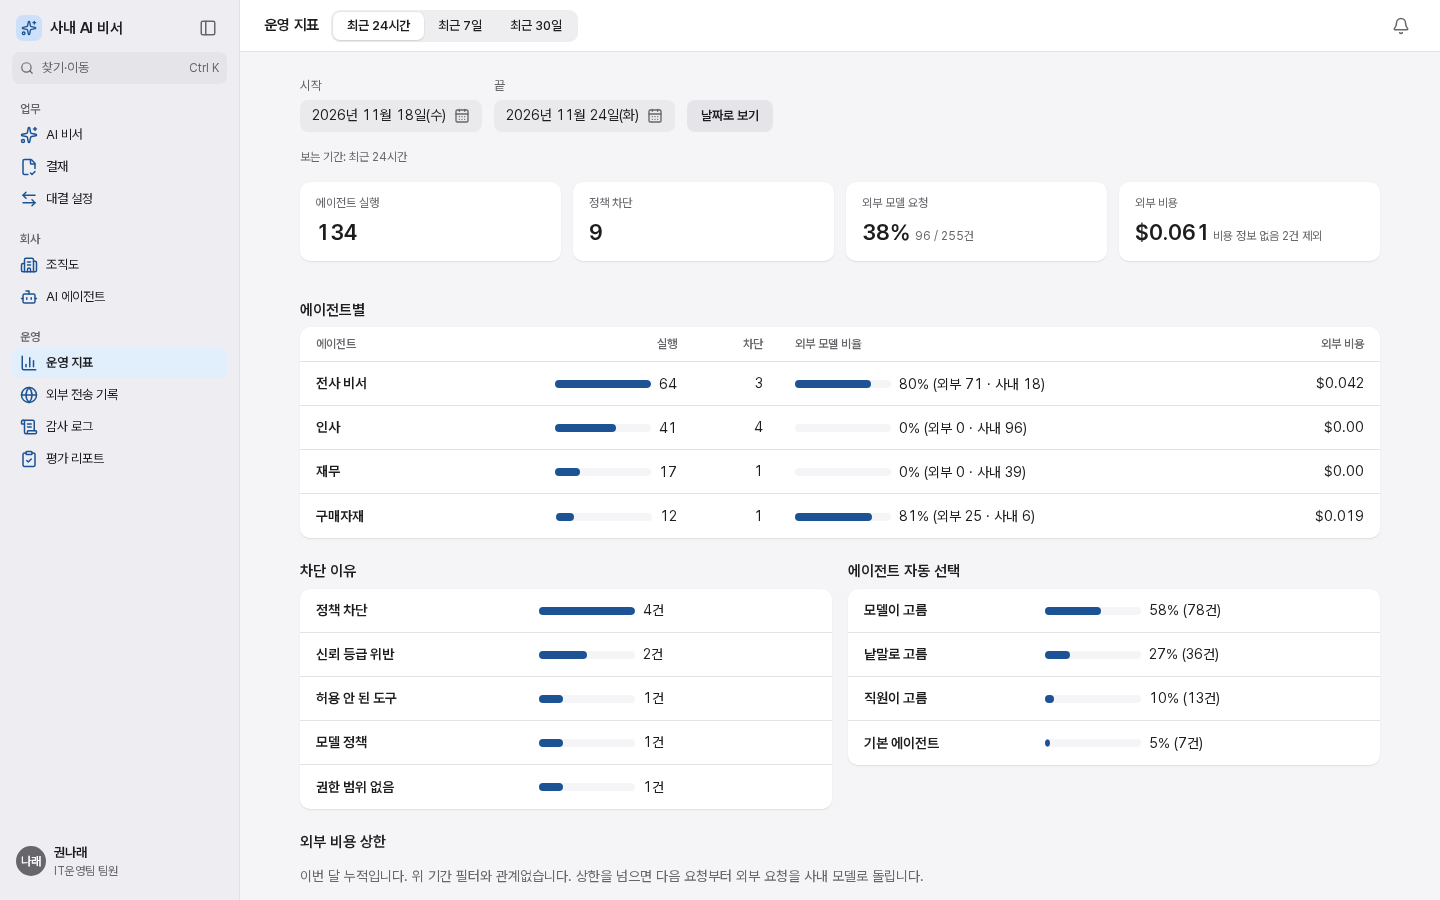
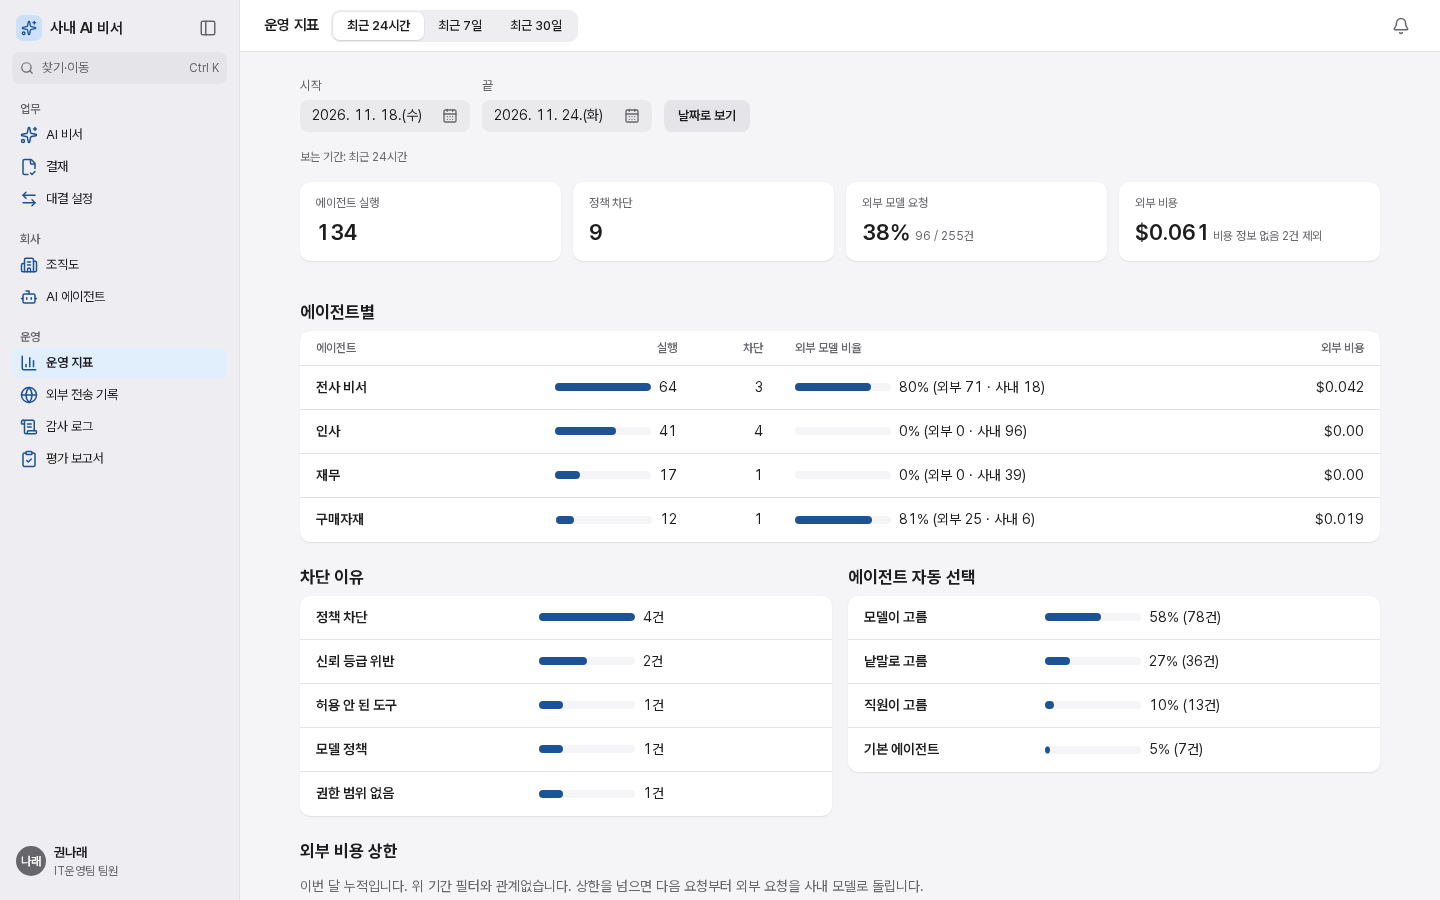
docs(web): 새 날짜·시각 표기로 README 화면을 다시 찍습니다

diff --git a/web/README.md b/web/README.md
@@ -119,7 +119,7 @@ docker compose -f infra/compose.yaml --env-file .env --profile full up -d --buil
 
 ## 화면
 
-재설계(#557) 뒤 화면입니다. 1440×900, `ko-KR`·`Asia/Seoul`로 Playwright headless Chromium에서 찍었습니다(2026-11-24).
+재설계(#557) 뒤 화면입니다. 1440×900, `ko-KR`·`Asia/Seoul`로 Playwright headless Chromium에서 찍었습니다(2026-11-24). 날짜는 "2026. 11. 24.", 시각은 "오후 2:30"으로 맞춘 뒤(#638) 다시 찍었습니다.
 
 ### 모의 서버
 
@@ -183,10 +183,10 @@ docker compose -f infra/compose.yaml --env-file .env --profile full up -d --buil
 |---|---|
 | ![실제 조직도](docs/images/stack-org.png) | ![실제 AI 에이전트](docs/images/stack-agents.png) |
 
-실제 스택에서 본 것 중 web 밖에서 고칠 것:
+실제 스택 화면에는 아래 두 가지가 아직 보입니다. 찍을 때 쓴 이미지가 두 수정보다 먼저 빌드된 것이기 때문입니다.
 
-- 에이전트 답 본문에 "되돌릴 수 있습니다: …(행동 act_…)"처럼 내부 행동 ID와 옛 말이 들어갑니다(agent 고정 안내 문구).
-- 결재 문서 상세의 필드 순서가 사유 → 종료일 → 종류 → 시작일로 나옵니다. 모의 서버는 양식 순서대로 나옵니다.
+- 에이전트 답 본문에 "되돌릴 수 있습니다: …(행동 act_…)"처럼 내부 행동 ID와 옛 말이 들어갑니다. agent의 고정 안내 문구에서 고칩니다.
+- 결재 문서 상세의 필드 순서가 사유 → 종료일 → 종류 → 시작일로 나옵니다. erp가 양식 정의 순서로 돌려주도록 고쳤습니다(#634).
 
 다시 찍는 방법:
 
